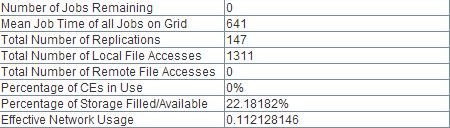
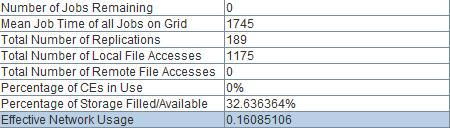
More details

diff --git a/optorsim-2.1/Summary@sim_completed.html b/optorsim-2.1/Summary@sim_completed.html
@@ -14,7 +14,7 @@
 <p><a href="#computing">Computing Elements Statistics</a></p>
 <p><a name="grid"></a></p>
 <h1>Grid</h1>
-<table border="1"><tr><th>Grid Summary Table</th><th></th></tr><tr><td>Number of Jobs Remaining</td><td>0</td></tr><tr><td>Mean Job Time of all Jobs on Grid</td><td>57309</td></tr><tr><td>Total Number of Replications</td><td>0</td></tr><tr><td>Total Number of Local File Accesses</td><td>0</td></tr><tr><td>Total Number of Remote File Accesses</td><td>12391</td></tr><tr><td>Percentage of CEs in Use</td><td>0%</td></tr><tr><td>Percentage of Storage Filled/Available</td><td>8.818179%</td></tr><tr><td>Effective Network Usage</td><td>1.0</td></tr></table>
+<table border="1"><tr><th>Grid Summary Table</th><th></th></tr><tr><td>Number of Jobs Remaining</td><td>0</td></tr><tr><td>Mean Job Time of all Jobs on Grid</td><td>1745</td></tr><tr><td>Total Number of Replications</td><td>189</td></tr><tr><td>Total Number of Local File Accesses</td><td>1175</td></tr><tr><td>Total Number of Remote File Accesses</td><td>0</td></tr><tr><td>Percentage of CEs in Use</td><td>0%</td></tr><tr><td>Percentage of Storage Filled/Available</td><td>32.636364%</td></tr><tr><td>Effective Network Usage</td><td>0.16085106</td></tr></table>
 <p>
 <a href="allGraphs@sim_completed/Grid MJT V Time.JPEG"><img src="allGraphs@sim_completed/Grid MJT V Time.JPEG" alt ="Grid MJT V Time" width="300" height="200"></img></a>
 <a href="allGraphs@sim_completed/Grid JTHist V Time.JPEG"><img src="allGraphs@sim_completed/Grid JTHist V Time.JPEG" alt ="Grid JTHist V Time" width="300" height="200"></img></a>
@@ -61,14 +61,14 @@
 <a href="allGraphs@sim_completed/Site CEU V Time Site4.JPEG"><img src="allGraphs@sim_completed/Site CEU V Time Site4.JPEG" alt ="Site CEU V Time Site4" width="300" height="200"></img></a>
 <a href="allGraphs@sim_completed/Site SEU V Time Site4.JPEG"><img src="allGraphs@sim_completed/Site SEU V Time Site4.JPEG" alt ="Site SEU V Time Site4" width="300" height="200"></img></a>
 </p><h2>Site5</h2>
-<table border="1"><tr><th>Site5 Summary Table</th><th></th></tr><tr><td>Number of CE's</td><td>1</td></tr><tr><td>Size of SE</td><td>50GB</td></tr><tr><td>CE Status (active/idle)</td><td>idle</td></tr><tr><td>SE Status (percentage filled)</td><td>0.0%</td></tr><tr><td>Number of Jobs Processed</td><td>153</td></tr><tr><td>Number of Jobs in Queue</td><td>0</td></tr><tr><td>Mean Job Time</td><td>698038</td></tr><tr><td>Number of Local File Accesses</td><td>0</td></tr><tr><td>Number of Remote File Accesses</td><td>1919</td></tr></table>
+<table border="1"><tr><th>Site5 Summary Table</th><th></th></tr><tr><td>Number of CE's</td><td>1</td></tr><tr><td>Size of SE</td><td>50GB</td></tr><tr><td>CE Status (active/idle)</td><td>idle</td></tr><tr><td>SE Status (percentage filled)</td><td>39.999996%</td></tr><tr><td>Number of Jobs Processed</td><td>12</td></tr><tr><td>Number of Jobs in Queue</td><td>0</td></tr><tr><td>Mean Job Time</td><td>94431</td></tr><tr><td>Number of Local File Accesses</td><td>129</td></tr><tr><td>Number of Remote File Accesses</td><td>0</td></tr></table>
 <p>
 <a href="allGraphs@sim_completed/Site MJT V Time Site5.JPEG"><img src="allGraphs@sim_completed/Site MJT V Time Site5.JPEG" alt ="Site MJT V Time Site5" width="300" height="200"></img></a>
 <a href="allGraphs@sim_completed/Site JTHist V Time Site5.JPEG"><img src="allGraphs@sim_completed/Site JTHist V Time Site5.JPEG" alt ="Site JTHist V Time Site5" width="300" height="200"></img></a>
 <a href="allGraphs@sim_completed/Site CEU V Time Site5.JPEG"><img src="allGraphs@sim_completed/Site CEU V Time Site5.JPEG" alt ="Site CEU V Time Site5" width="300" height="200"></img></a>
 <a href="allGraphs@sim_completed/Site SEU V Time Site5.JPEG"><img src="allGraphs@sim_completed/Site SEU V Time Site5.JPEG" alt ="Site SEU V Time Site5" width="300" height="200"></img></a>
 </p><h2>Site6</h2>
-<table border="1"><tr><th>Site6 Summary Table</th><th></th></tr><tr><td>Number of CE's</td><td>1</td></tr><tr><td>Size of SE</td><td>50GB</td></tr><tr><td>CE Status (active/idle)</td><td>idle</td></tr><tr><td>SE Status (percentage filled)</td><td>0.0%</td></tr><tr><td>Number of Jobs Processed</td><td>124</td></tr><tr><td>Number of Jobs in Queue</td><td>0</td></tr><tr><td>Mean Job Time</td><td>786101</td></tr><tr><td>Number of Local File Accesses</td><td>0</td></tr><tr><td>Number of Remote File Accesses</td><td>548</td></tr></table>
+<table border="1"><tr><th>Site6 Summary Table</th><th></th></tr><tr><td>Number of CE's</td><td>1</td></tr><tr><td>Size of SE</td><td>50GB</td></tr><tr><td>CE Status (active/idle)</td><td>idle</td></tr><tr><td>SE Status (percentage filled)</td><td>78.0%</td></tr><tr><td>Number of Jobs Processed</td><td>16</td></tr><tr><td>Number of Jobs in Queue</td><td>0</td></tr><tr><td>Mean Job Time</td><td>434550</td></tr><tr><td>Number of Local File Accesses</td><td>195</td></tr><tr><td>Number of Remote File Accesses</td><td>0</td></tr></table>
 <p>
 <a href="allGraphs@sim_completed/Site MJT V Time Site6.JPEG"><img src="allGraphs@sim_completed/Site MJT V Time Site6.JPEG" alt ="Site MJT V Time Site6" width="300" height="200"></img></a>
 <a href="allGraphs@sim_completed/Site JTHist V Time Site6.JPEG"><img src="allGraphs@sim_completed/Site JTHist V Time Site6.JPEG" alt ="Site JTHist V Time Site6" width="300" height="200"></img></a>
@@ -82,28 +82,28 @@
 <a href="allGraphs@sim_completed/Site CEU V Time Site7.JPEG"><img src="allGraphs@sim_completed/Site CEU V Time Site7.JPEG" alt ="Site CEU V Time Site7" width="300" height="200"></img></a>
 <a href="allGraphs@sim_completed/Site SEU V Time Site7.JPEG"><img src="allGraphs@sim_completed/Site SEU V Time Site7.JPEG" alt ="Site SEU V Time Site7" width="300" height="200"></img></a>
 </p><h2>Site8</h2>
-<table border="1"><tr><th>Site8 Summary Table</th><th></th></tr><tr><td>Number of CE's</td><td>1</td></tr><tr><td>Size of SE</td><td>50GB</td></tr><tr><td>CE Status (active/idle)</td><td>idle</td></tr><tr><td>SE Status (percentage filled)</td><td>0.0%</td></tr><tr><td>Number of Jobs Processed</td><td>137</td></tr><tr><td>Number of Jobs in Queue</td><td>0</td></tr><tr><td>Mean Job Time</td><td>722650</td></tr><tr><td>Number of Local File Accesses</td><td>0</td></tr><tr><td>Number of Remote File Accesses</td><td>1236</td></tr></table>
+<table border="1"><tr><th>Site8 Summary Table</th><th></th></tr><tr><td>Number of CE's</td><td>1</td></tr><tr><td>Size of SE</td><td>50GB</td></tr><tr><td>CE Status (active/idle)</td><td>idle</td></tr><tr><td>SE Status (percentage filled)</td><td>100.0%</td></tr><tr><td>Number of Jobs Processed</td><td>15</td></tr><tr><td>Number of Jobs in Queue</td><td>0</td></tr><tr><td>Mean Job Time</td><td>166767</td></tr><tr><td>Number of Local File Accesses</td><td>231</td></tr><tr><td>Number of Remote File Accesses</td><td>0</td></tr></table>
 <p>
 <a href="allGraphs@sim_completed/Site MJT V Time Site8.JPEG"><img src="allGraphs@sim_completed/Site MJT V Time Site8.JPEG" alt ="Site MJT V Time Site8" width="300" height="200"></img></a>
 <a href="allGraphs@sim_completed/Site JTHist V Time Site8.JPEG"><img src="allGraphs@sim_completed/Site JTHist V Time Site8.JPEG" alt ="Site JTHist V Time Site8" width="300" height="200"></img></a>
 <a href="allGraphs@sim_completed/Site CEU V Time Site8.JPEG"><img src="allGraphs@sim_completed/Site CEU V Time Site8.JPEG" alt ="Site CEU V Time Site8" width="300" height="200"></img></a>
 <a href="allGraphs@sim_completed/Site SEU V Time Site8.JPEG"><img src="allGraphs@sim_completed/Site SEU V Time Site8.JPEG" alt ="Site SEU V Time Site8" width="300" height="200"></img></a>
 </p><h2>Site9</h2>
-<table border="1"><tr><th>Site9 Summary Table</th><th></th></tr><tr><td>Number of CE's</td><td>1</td></tr><tr><td>Size of SE</td><td>50GB</td></tr><tr><td>CE Status (active/idle)</td><td>idle</td></tr><tr><td>SE Status (percentage filled)</td><td>0.0%</td></tr><tr><td>Number of Jobs Processed</td><td>130</td></tr><tr><td>Number of Jobs in Queue</td><td>0</td></tr><tr><td>Mean Job Time</td><td>752556</td></tr><tr><td>Number of Local File Accesses</td><td>0</td></tr><tr><td>Number of Remote File Accesses</td><td>550</td></tr></table>
+<table border="1"><tr><th>Site9 Summary Table</th><th></th></tr><tr><td>Number of CE's</td><td>1</td></tr><tr><td>Size of SE</td><td>50GB</td></tr><tr><td>CE Status (active/idle)</td><td>idle</td></tr><tr><td>SE Status (percentage filled)</td><td>68.0%</td></tr><tr><td>Number of Jobs Processed</td><td>18</td></tr><tr><td>Number of Jobs in Queue</td><td>0</td></tr><tr><td>Mean Job Time</td><td>337062</td></tr><tr><td>Number of Local File Accesses</td><td>227</td></tr><tr><td>Number of Remote File Accesses</td><td>0</td></tr></table>
 <p>
 <a href="allGraphs@sim_completed/Site MJT V Time Site9.JPEG"><img src="allGraphs@sim_completed/Site MJT V Time Site9.JPEG" alt ="Site MJT V Time Site9" width="300" height="200"></img></a>
 <a href="allGraphs@sim_completed/Site JTHist V Time Site9.JPEG"><img src="allGraphs@sim_completed/Site JTHist V Time Site9.JPEG" alt ="Site JTHist V Time Site9" width="300" height="200"></img></a>
 <a href="allGraphs@sim_completed/Site CEU V Time Site9.JPEG"><img src="allGraphs@sim_completed/Site CEU V Time Site9.JPEG" alt ="Site CEU V Time Site9" width="300" height="200"></img></a>
 <a href="allGraphs@sim_completed/Site SEU V Time Site9.JPEG"><img src="allGraphs@sim_completed/Site SEU V Time Site9.JPEG" alt ="Site SEU V Time Site9" width="300" height="200"></img></a>
 </p><h2>Site10</h2>
-<table border="1"><tr><th>Site10 Summary Table</th><th></th></tr><tr><td>Number of CE's</td><td>1</td></tr><tr><td>Size of SE</td><td>50GB</td></tr><tr><td>CE Status (active/idle)</td><td>idle</td></tr><tr><td>SE Status (percentage filled)</td><td>0.0%</td></tr><tr><td>Number of Jobs Processed</td><td>0</td></tr><tr><td>Number of Jobs in Queue</td><td>0</td></tr><tr><td>Mean Job Time</td><td>0</td></tr><tr><td>Number of Local File Accesses</td><td>0</td></tr><tr><td>Number of Remote File Accesses</td><td>0</td></tr></table>
+<table border="1"><tr><th>Site10 Summary Table</th><th></th></tr><tr><td>Number of CE's</td><td>1</td></tr><tr><td>Size of SE</td><td>50GB</td></tr><tr><td>CE Status (active/idle)</td><td>idle</td></tr><tr><td>SE Status (percentage filled)</td><td>100.0%</td></tr><tr><td>Number of Jobs Processed</td><td>0</td></tr><tr><td>Number of Jobs in Queue</td><td>0</td></tr><tr><td>Mean Job Time</td><td>0</td></tr><tr><td>Number of Local File Accesses</td><td>0</td></tr><tr><td>Number of Remote File Accesses</td><td>0</td></tr></table>
 <p>
 <a href="allGraphs@sim_completed/Site MJT V Time Site10.JPEG"><img src="allGraphs@sim_completed/Site MJT V Time Site10.JPEG" alt ="Site MJT V Time Site10" width="300" height="200"></img></a>
 <a href="allGraphs@sim_completed/Site JTHist V Time Site10.JPEG"><img src="allGraphs@sim_completed/Site JTHist V Time Site10.JPEG" alt ="Site JTHist V Time Site10" width="300" height="200"></img></a>
 <a href="allGraphs@sim_completed/Site CEU V Time Site10.JPEG"><img src="allGraphs@sim_completed/Site CEU V Time Site10.JPEG" alt ="Site CEU V Time Site10" width="300" height="200"></img></a>
 <a href="allGraphs@sim_completed/Site SEU V Time Site10.JPEG"><img src="allGraphs@sim_completed/Site SEU V Time Site10.JPEG" alt ="Site SEU V Time Site10" width="300" height="200"></img></a>
 </p><h2>Site11</h2>
-<table border="1"><tr><th>Site11 Summary Table</th><th></th></tr><tr><td>Number of CE's</td><td>1</td></tr><tr><td>Size of SE</td><td>50GB</td></tr><tr><td>CE Status (active/idle)</td><td>idle</td></tr><tr><td>SE Status (percentage filled)</td><td>0.0%</td></tr><tr><td>Number of Jobs Processed</td><td>165</td></tr><tr><td>Number of Jobs in Queue</td><td>0</td></tr><tr><td>Mean Job Time</td><td>650406</td></tr><tr><td>Number of Local File Accesses</td><td>0</td></tr><tr><td>Number of Remote File Accesses</td><td>1929</td></tr></table>
+<table border="1"><tr><th>Site11 Summary Table</th><th></th></tr><tr><td>Number of CE's</td><td>1</td></tr><tr><td>Size of SE</td><td>50GB</td></tr><tr><td>CE Status (active/idle)</td><td>idle</td></tr><tr><td>SE Status (percentage filled)</td><td>56.0%</td></tr><tr><td>Number of Jobs Processed</td><td>19</td></tr><tr><td>Number of Jobs in Queue</td><td>0</td></tr><tr><td>Mean Job Time</td><td>109514</td></tr><tr><td>Number of Local File Accesses</td><td>182</td></tr><tr><td>Number of Remote File Accesses</td><td>0</td></tr></table>
 <p>
 <a href="allGraphs@sim_completed/Site MJT V Time Site11.JPEG"><img src="allGraphs@sim_completed/Site MJT V Time Site11.JPEG" alt ="Site MJT V Time Site11" width="300" height="200"></img></a>
 <a href="allGraphs@sim_completed/Site JTHist V Time Site11.JPEG"><img src="allGraphs@sim_completed/Site JTHist V Time Site11.JPEG" alt ="Site JTHist V Time Site11" width="300" height="200"></img></a>
@@ -138,14 +138,14 @@
 <a href="allGraphs@sim_completed/Site CEU V Time Site15.JPEG"><img src="allGraphs@sim_completed/Site CEU V Time Site15.JPEG" alt ="Site CEU V Time Site15" width="300" height="200"></img></a>
 <a href="allGraphs@sim_completed/Site SEU V Time Site15.JPEG"><img src="allGraphs@sim_completed/Site SEU V Time Site15.JPEG" alt ="Site SEU V Time Site15" width="300" height="200"></img></a>
 </p><h2>Site16</h2>
-<table border="1"><tr><th>Site16 Summary Table</th><th></th></tr><tr><td>Number of CE's</td><td>1</td></tr><tr><td>Size of SE</td><td>50GB</td></tr><tr><td>CE Status (active/idle)</td><td>idle</td></tr><tr><td>SE Status (percentage filled)</td><td>0.0%</td></tr><tr><td>Number of Jobs Processed</td><td>148</td></tr><tr><td>Number of Jobs in Queue</td><td>0</td></tr><tr><td>Mean Job Time</td><td>841479</td></tr><tr><td>Number of Local File Accesses</td><td>0</td></tr><tr><td>Number of Remote File Accesses</td><td>3118</td></tr></table>
+<table border="1"><tr><th>Site16 Summary Table</th><th></th></tr><tr><td>Number of CE's</td><td>1</td></tr><tr><td>Size of SE</td><td>50GB</td></tr><tr><td>CE Status (active/idle)</td><td>idle</td></tr><tr><td>SE Status (percentage filled)</td><td>32.0%</td></tr><tr><td>Number of Jobs Processed</td><td>11</td></tr><tr><td>Number of Jobs in Queue</td><td>0</td></tr><tr><td>Mean Job Time</td><td>32738</td></tr><tr><td>Number of Local File Accesses</td><td>99</td></tr><tr><td>Number of Remote File Accesses</td><td>0</td></tr></table>
 <p>
 <a href="allGraphs@sim_completed/Site MJT V Time Site16.JPEG"><img src="allGraphs@sim_completed/Site MJT V Time Site16.JPEG" alt ="Site MJT V Time Site16" width="300" height="200"></img></a>
 <a href="allGraphs@sim_completed/Site JTHist V Time Site16.JPEG"><img src="allGraphs@sim_completed/Site JTHist V Time Site16.JPEG" alt ="Site JTHist V Time Site16" width="300" height="200"></img></a>
 <a href="allGraphs@sim_completed/Site CEU V Time Site16.JPEG"><img src="allGraphs@sim_completed/Site CEU V Time Site16.JPEG" alt ="Site CEU V Time Site16" width="300" height="200"></img></a>
 <a href="allGraphs@sim_completed/Site SEU V Time Site16.JPEG"><img src="allGraphs@sim_completed/Site SEU V Time Site16.JPEG" alt ="Site SEU V Time Site16" width="300" height="200"></img></a>
 </p><h2>Site17</h2>
-<table border="1"><tr><th>Site17 Summary Table</th><th></th></tr><tr><td>Number of CE's</td><td>1</td></tr><tr><td>Size of SE</td><td>50GB</td></tr><tr><td>CE Status (active/idle)</td><td>idle</td></tr><tr><td>SE Status (percentage filled)</td><td>0.0%</td></tr><tr><td>Number of Jobs Processed</td><td>143</td></tr><tr><td>Number of Jobs in Queue</td><td>0</td></tr><tr><td>Mean Job Time</td><td>868454</td></tr><tr><td>Number of Local File Accesses</td><td>0</td></tr><tr><td>Number of Remote File Accesses</td><td>3091</td></tr></table>
+<table border="1"><tr><th>Site17 Summary Table</th><th></th></tr><tr><td>Number of CE's</td><td>1</td></tr><tr><td>Size of SE</td><td>50GB</td></tr><tr><td>CE Status (active/idle)</td><td>idle</td></tr><tr><td>SE Status (percentage filled)</td><td>50.0%</td></tr><tr><td>Number of Jobs Processed</td><td>9</td></tr><tr><td>Number of Jobs in Queue</td><td>0</td></tr><tr><td>Mean Job Time</td><td>51702</td></tr><tr><td>Number of Local File Accesses</td><td>112</td></tr><tr><td>Number of Remote File Accesses</td><td>0</td></tr></table>
 <p>
 <a href="allGraphs@sim_completed/Site MJT V Time Site17.JPEG"><img src="allGraphs@sim_completed/Site MJT V Time Site17.JPEG" alt ="Site MJT V Time Site17" width="300" height="200"></img></a>
 <a href="allGraphs@sim_completed/Site JTHist V Time Site17.JPEG"><img src="allGraphs@sim_completed/Site JTHist V Time Site17.JPEG" alt ="Site JTHist V Time Site17" width="300" height="200"></img></a>
@@ -193,12 +193,12 @@
 <a href="allGraphs@sim_completed/Stor Usage V Time SE1@Site4.JPEG"><img src="allGraphs@sim_completed/Stor Usage V Time SE1@Site4.JPEG" alt ="Stor Usage V Time SE1@Site4" width="300" height="200"></img></a>
 </p><a href="allGraphs@sim_completed/SE Usage (current) SE1@Site4.JPEG"><img src="allGraphs@sim_completed/SE Usage (current) SE1@Site4.JPEG" alt ="SE Usage (current) SE1@Site4" width="300" height="200"></img></a>
 <h2>SE1@Site5</h2>
-<table border="1"><tr><th>SE1@Site5 Summary Table</th><th></th></tr><tr><td>Size of SE</td><td>50GB</td></tr><tr><td>SE Status (percentage filled)</td><td>0.0%</td></tr><tr><td>Number of Files Stored</td><td>0</td></tr></table>
+<table border="1"><tr><th>SE1@Site5 Summary Table</th><th></th></tr><tr><td>Size of SE</td><td>50GB</td></tr><tr><td>SE Status (percentage filled)</td><td>39.999996%</td></tr><tr><td>Number of Files Stored</td><td>20</td></tr></table>
 <p>
 <a href="allGraphs@sim_completed/Stor Usage V Time SE1@Site5.JPEG"><img src="allGraphs@sim_completed/Stor Usage V Time SE1@Site5.JPEG" alt ="Stor Usage V Time SE1@Site5" width="300" height="200"></img></a>
 </p><a href="allGraphs@sim_completed/SE Usage (current) SE1@Site5.JPEG"><img src="allGraphs@sim_completed/SE Usage (current) SE1@Site5.JPEG" alt ="SE Usage (current) SE1@Site5" width="300" height="200"></img></a>
 <h2>SE1@Site6</h2>
-<table border="1"><tr><th>SE1@Site6 Summary Table</th><th></th></tr><tr><td>Size of SE</td><td>50GB</td></tr><tr><td>SE Status (percentage filled)</td><td>0.0%</td></tr><tr><td>Number of Files Stored</td><td>0</td></tr></table>
+<table border="1"><tr><th>SE1@Site6 Summary Table</th><th></th></tr><tr><td>Size of SE</td><td>50GB</td></tr><tr><td>SE Status (percentage filled)</td><td>78.0%</td></tr><tr><td>Number of Files Stored</td><td>39</td></tr></table>
 <p>
 <a href="allGraphs@sim_completed/Stor Usage V Time SE1@Site6.JPEG"><img src="allGraphs@sim_completed/Stor Usage V Time SE1@Site6.JPEG" alt ="Stor Usage V Time SE1@Site6" width="300" height="200"></img></a>
 </p><a href="allGraphs@sim_completed/SE Usage (current) SE1@Site6.JPEG"><img src="allGraphs@sim_completed/SE Usage (current) SE1@Site6.JPEG" alt ="SE Usage (current) SE1@Site6" width="300" height="200"></img></a>
@@ -208,22 +208,22 @@
 <a href="allGraphs@sim_completed/Stor Usage V Time SE1@Site7.JPEG"><img src="allGraphs@sim_completed/Stor Usage V Time SE1@Site7.JPEG" alt ="Stor Usage V Time SE1@Site7" width="300" height="200"></img></a>
 </p><a href="allGraphs@sim_completed/SE Usage (current) SE1@Site7.JPEG"><img src="allGraphs@sim_completed/SE Usage (current) SE1@Site7.JPEG" alt ="SE Usage (current) SE1@Site7" width="300" height="200"></img></a>
 <h2>SE1@Site8</h2>
-<table border="1"><tr><th>SE1@Site8 Summary Table</th><th></th></tr><tr><td>Size of SE</td><td>50GB</td></tr><tr><td>SE Status (percentage filled)</td><td>0.0%</td></tr><tr><td>Number of Files Stored</td><td>0</td></tr></table>
+<table border="1"><tr><th>SE1@Site8 Summary Table</th><th></th></tr><tr><td>Size of SE</td><td>50GB</td></tr><tr><td>SE Status (percentage filled)</td><td>100.0%</td></tr><tr><td>Number of Files Stored</td><td>50</td></tr></table>
 <p>
 <a href="allGraphs@sim_completed/Stor Usage V Time SE1@Site8.JPEG"><img src="allGraphs@sim_completed/Stor Usage V Time SE1@Site8.JPEG" alt ="Stor Usage V Time SE1@Site8" width="300" height="200"></img></a>
 </p><a href="allGraphs@sim_completed/SE Usage (current) SE1@Site8.JPEG"><img src="allGraphs@sim_completed/SE Usage (current) SE1@Site8.JPEG" alt ="SE Usage (current) SE1@Site8" width="300" height="200"></img></a>
 <h2>SE1@Site9</h2>
-<table border="1"><tr><th>SE1@Site9 Summary Table</th><th></th></tr><tr><td>Size of SE</td><td>50GB</td></tr><tr><td>SE Status (percentage filled)</td><td>0.0%</td></tr><tr><td>Number of Files Stored</td><td>0</td></tr></table>
+<table border="1"><tr><th>SE1@Site9 Summary Table</th><th></th></tr><tr><td>Size of SE</td><td>50GB</td></tr><tr><td>SE Status (percentage filled)</td><td>68.0%</td></tr><tr><td>Number of Files Stored</td><td>34</td></tr></table>
 <p>
 <a href="allGraphs@sim_completed/Stor Usage V Time SE1@Site9.JPEG"><img src="allGraphs@sim_completed/Stor Usage V Time SE1@Site9.JPEG" alt ="Stor Usage V Time SE1@Site9" width="300" height="200"></img></a>
 </p><a href="allGraphs@sim_completed/SE Usage (current) SE1@Site9.JPEG"><img src="allGraphs@sim_completed/SE Usage (current) SE1@Site9.JPEG" alt ="SE Usage (current) SE1@Site9" width="300" height="200"></img></a>
 <h2>SE1@Site10</h2>
-<table border="1"><tr><th>SE1@Site10 Summary Table</th><th></th></tr><tr><td>Size of SE</td><td>50GB</td></tr><tr><td>SE Status (percentage filled)</td><td>0.0%</td></tr><tr><td>Number of Files Stored</td><td>0</td></tr></table>
+<table border="1"><tr><th>SE1@Site10 Summary Table</th><th></th></tr><tr><td>Size of SE</td><td>50GB</td></tr><tr><td>SE Status (percentage filled)</td><td>100.0%</td></tr><tr><td>Number of Files Stored</td><td>50</td></tr></table>
 <p>
 <a href="allGraphs@sim_completed/Stor Usage V Time SE1@Site10.JPEG"><img src="allGraphs@sim_completed/Stor Usage V Time SE1@Site10.JPEG" alt ="Stor Usage V Time SE1@Site10" width="300" height="200"></img></a>
 </p><a href="allGraphs@sim_completed/SE Usage (current) SE1@Site10.JPEG"><img src="allGraphs@sim_completed/SE Usage (current) SE1@Site10.JPEG" alt ="SE Usage (current) SE1@Site10" width="300" height="200"></img></a>
 <h2>SE1@Site11</h2>
-<table border="1"><tr><th>SE1@Site11 Summary Table</th><th></th></tr><tr><td>Size of SE</td><td>50GB</td></tr><tr><td>SE Status (percentage filled)</td><td>0.0%</td></tr><tr><td>Number of Files Stored</td><td>0</td></tr></table>
+<table border="1"><tr><th>SE1@Site11 Summary Table</th><th></th></tr><tr><td>Size of SE</td><td>50GB</td></tr><tr><td>SE Status (percentage filled)</td><td>56.0%</td></tr><tr><td>Number of Files Stored</td><td>28</td></tr></table>
 <p>
 <a href="allGraphs@sim_completed/Stor Usage V Time SE1@Site11.JPEG"><img src="allGraphs@sim_completed/Stor Usage V Time SE1@Site11.JPEG" alt ="Stor Usage V Time SE1@Site11" width="300" height="200"></img></a>
 </p><a href="allGraphs@sim_completed/SE Usage (current) SE1@Site11.JPEG"><img src="allGraphs@sim_completed/SE Usage (current) SE1@Site11.JPEG" alt ="SE Usage (current) SE1@Site11" width="300" height="200"></img></a>
@@ -248,12 +248,12 @@
 <a href="allGraphs@sim_completed/Stor Usage V Time SE1@Site15.JPEG"><img src="allGraphs@sim_completed/Stor Usage V Time SE1@Site15.JPEG" alt ="Stor Usage V Time SE1@Site15" width="300" height="200"></img></a>
 </p><a href="allGraphs@sim_completed/SE Usage (current) SE1@Site15.JPEG"><img src="allGraphs@sim_completed/SE Usage (current) SE1@Site15.JPEG" alt ="SE Usage (current) SE1@Site15" width="300" height="200"></img></a>
 <h2>SE1@Site16</h2>
-<table border="1"><tr><th>SE1@Site16 Summary Table</th><th></th></tr><tr><td>Size of SE</td><td>50GB</td></tr><tr><td>SE Status (percentage filled)</td><td>0.0%</td></tr><tr><td>Number of Files Stored</td><td>0</td></tr></table>
+<table border="1"><tr><th>SE1@Site16 Summary Table</th><th></th></tr><tr><td>Size of SE</td><td>50GB</td></tr><tr><td>SE Status (percentage filled)</td><td>32.0%</td></tr><tr><td>Number of Files Stored</td><td>16</td></tr></table>
 <p>
 <a href="allGraphs@sim_completed/Stor Usage V Time SE1@Site16.JPEG"><img src="allGraphs@sim_completed/Stor Usage V Time SE1@Site16.JPEG" alt ="Stor Usage V Time SE1@Site16" width="300" height="200"></img></a>
 </p><a href="allGraphs@sim_completed/SE Usage (current) SE1@Site16.JPEG"><img src="allGraphs@sim_completed/SE Usage (current) SE1@Site16.JPEG" alt ="SE Usage (current) SE1@Site16" width="300" height="200"></img></a>
 <h2>SE1@Site17</h2>
-<table border="1"><tr><th>SE1@Site17 Summary Table</th><th></th></tr><tr><td>Size of SE</td><td>50GB</td></tr><tr><td>SE Status (percentage filled)</td><td>0.0%</td></tr><tr><td>Number of Files Stored</td><td>0</td></tr></table>
+<table border="1"><tr><th>SE1@Site17 Summary Table</th><th></th></tr><tr><td>Size of SE</td><td>50GB</td></tr><tr><td>SE Status (percentage filled)</td><td>50.0%</td></tr><tr><td>Number of Files Stored</td><td>25</td></tr></table>
 <p>
 <a href="allGraphs@sim_completed/Stor Usage V Time SE1@Site17.JPEG"><img src="allGraphs@sim_completed/Stor Usage V Time SE1@Site17.JPEG" alt ="Stor Usage V Time SE1@Site17" width="300" height="200"></img></a>
 </p><a href="allGraphs@sim_completed/SE Usage (current) SE1@Site17.JPEG"><img src="allGraphs@sim_completed/SE Usage (current) SE1@Site17.JPEG" alt ="SE Usage (current) SE1@Site17" width="300" height="200"></img></a>
@@ -310,7 +310,7 @@
 <a href="allGraphs@sim_completed/Comp RFA V Time CE5@Site4.JPEG"><img src="allGraphs@sim_completed/Comp RFA V Time CE5@Site4.JPEG" alt ="Comp RFA V Time CE5@Site4" width="300" height="200"></img></a>
 <a href="allGraphs@sim_completed/Comp LFA V Time CE5@Site4.JPEG"><img src="allGraphs@sim_completed/Comp LFA V Time CE5@Site4.JPEG" alt ="Comp LFA V Time CE5@Site4" width="300" height="200"></img></a>
 </p><h2>CE6@Site5</h2>
-<table border="1"><tr><th>CE6@Site5 Summary Table</th><th></th></tr><tr><td>Number of Worker Node's</td><td>100</td></tr><tr><td>CE Status (active/idle)</td><td>idle</td></tr><tr><td>Number of Jobs Processed</td><td>153</td></tr><tr><td>Number of Jobs in Queue</td><td>0</td></tr><tr><td>Mean Job Time</td><td>698038</td></tr><tr><td>Number of Local File Accesses</td><td>0</td></tr><tr><td>Number of Remote File Accesses</td><td>1919</td></tr><tr><td>CE Usage (time active/total time running)</td><td>85.0</td></tr></table>
+<table border="1"><tr><th>CE6@Site5 Summary Table</th><th></th></tr><tr><td>Number of Worker Node's</td><td>100</td></tr><tr><td>CE Status (active/idle)</td><td>idle</td></tr><tr><td>Number of Jobs Processed</td><td>12</td></tr><tr><td>Number of Jobs in Queue</td><td>0</td></tr><tr><td>Mean Job Time</td><td>94431</td></tr><tr><td>Number of Local File Accesses</td><td>129</td></tr><tr><td>Number of Remote File Accesses</td><td>0</td></tr><tr><td>CE Usage (time active/total time running)</td><td>16.0</td></tr></table>
 <p>
 <a href="allGraphs@sim_completed/Comp MJT V Time CE6@Site5.JPEG"><img src="allGraphs@sim_completed/Comp MJT V Time CE6@Site5.JPEG" alt ="Comp MJT V Time CE6@Site5" width="300" height="200"></img></a>
 <a href="allGraphs@sim_completed/Comp JTHist V Time CE6@Site5.JPEG"><img src="allGraphs@sim_completed/Comp JTHist V Time CE6@Site5.JPEG" alt ="Comp JTHist V Time CE6@Site5" width="300" height="200"></img></a>
@@ -318,7 +318,7 @@
 <a href="allGraphs@sim_completed/Comp RFA V Time CE6@Site5.JPEG"><img src="allGraphs@sim_completed/Comp RFA V Time CE6@Site5.JPEG" alt ="Comp RFA V Time CE6@Site5" width="300" height="200"></img></a>
 <a href="allGraphs@sim_completed/Comp LFA V Time CE6@Site5.JPEG"><img src="allGraphs@sim_completed/Comp LFA V Time CE6@Site5.JPEG" alt ="Comp LFA V Time CE6@Site5" width="300" height="200"></img></a>
 </p><h2>CE7@Site6</h2>
-<table border="1"><tr><th>CE7@Site6 Summary Table</th><th></th></tr><tr><td>Number of Worker Node's</td><td>100</td></tr><tr><td>CE Status (active/idle)</td><td>idle</td></tr><tr><td>Number of Jobs Processed</td><td>124</td></tr><tr><td>Number of Jobs in Queue</td><td>0</td></tr><tr><td>Mean Job Time</td><td>786101</td></tr><tr><td>Number of Local File Accesses</td><td>0</td></tr><tr><td>Number of Remote File Accesses</td><td>548</td></tr><tr><td>CE Usage (time active/total time running)</td><td>78.0</td></tr></table>
+<table border="1"><tr><th>CE7@Site6 Summary Table</th><th></th></tr><tr><td>Number of Worker Node's</td><td>100</td></tr><tr><td>CE Status (active/idle)</td><td>idle</td></tr><tr><td>Number of Jobs Processed</td><td>16</td></tr><tr><td>Number of Jobs in Queue</td><td>0</td></tr><tr><td>Mean Job Time</td><td>434550</td></tr><tr><td>Number of Local File Accesses</td><td>195</td></tr><tr><td>Number of Remote File Accesses</td><td>0</td></tr><tr><td>CE Usage (time active/total time running)</td><td>99.0</td></tr></table>
 <p>
 <a href="allGraphs@sim_completed/Comp MJT V Time CE7@Site6.JPEG"><img src="allGraphs@sim_completed/Comp MJT V Time CE7@Site6.JPEG" alt ="Comp MJT V Time CE7@Site6" width="300" height="200"></img></a>
 <a href="allGraphs@sim_completed/Comp JTHist V Time CE7@Site6.JPEG"><img src="allGraphs@sim_completed/Comp JTHist V Time CE7@Site6.JPEG" alt ="Comp JTHist V Time CE7@Site6" width="300" height="200"></img></a>
@@ -334,7 +334,7 @@
 <a href="allGraphs@sim_completed/Comp RFA V Time CE8@Site7.JPEG"><img src="allGraphs@sim_completed/Comp RFA V Time CE8@Site7.JPEG" alt ="Comp RFA V Time CE8@Site7" width="300" height="200"></img></a>
 <a href="allGraphs@sim_completed/Comp LFA V Time CE8@Site7.JPEG"><img src="allGraphs@sim_completed/Comp LFA V Time CE8@Site7.JPEG" alt ="Comp LFA V Time CE8@Site7" width="300" height="200"></img></a>
 </p><h2>CE9@Site8</h2>
-<table border="1"><tr><th>CE9@Site8 Summary Table</th><th></th></tr><tr><td>Number of Worker Node's</td><td>100</td></tr><tr><td>CE Status (active/idle)</td><td>idle</td></tr><tr><td>Number of Jobs Processed</td><td>137</td></tr><tr><td>Number of Jobs in Queue</td><td>0</td></tr><tr><td>Mean Job Time</td><td>722650</td></tr><tr><td>Number of Local File Accesses</td><td>0</td></tr><tr><td>Number of Remote File Accesses</td><td>1236</td></tr><tr><td>CE Usage (time active/total time running)</td><td>79.0</td></tr></table>
+<table border="1"><tr><th>CE9@Site8 Summary Table</th><th></th></tr><tr><td>Number of Worker Node's</td><td>100</td></tr><tr><td>CE Status (active/idle)</td><td>idle</td></tr><tr><td>Number of Jobs Processed</td><td>15</td></tr><tr><td>Number of Jobs in Queue</td><td>0</td></tr><tr><td>Mean Job Time</td><td>166767</td></tr><tr><td>Number of Local File Accesses</td><td>231</td></tr><tr><td>Number of Remote File Accesses</td><td>0</td></tr><tr><td>CE Usage (time active/total time running)</td><td>35.0</td></tr></table>
 <p>
 <a href="allGraphs@sim_completed/Comp MJT V Time CE9@Site8.JPEG"><img src="allGraphs@sim_completed/Comp MJT V Time CE9@Site8.JPEG" alt ="Comp MJT V Time CE9@Site8" width="300" height="200"></img></a>
 <a href="allGraphs@sim_completed/Comp JTHist V Time CE9@Site8.JPEG"><img src="allGraphs@sim_completed/Comp JTHist V Time CE9@Site8.JPEG" alt ="Comp JTHist V Time CE9@Site8" width="300" height="200"></img></a>
@@ -342,7 +342,7 @@
 <a href="allGraphs@sim_completed/Comp RFA V Time CE9@Site8.JPEG"><img src="allGraphs@sim_completed/Comp RFA V Time CE9@Site8.JPEG" alt ="Comp RFA V Time CE9@Site8" width="300" height="200"></img></a>
 <a href="allGraphs@sim_completed/Comp LFA V Time CE9@Site8.JPEG"><img src="allGraphs@sim_completed/Comp LFA V Time CE9@Site8.JPEG" alt ="Comp LFA V Time CE9@Site8" width="300" height="200"></img></a>
 </p><h2>CE10@Site9</h2>
-<table border="1"><tr><th>CE10@Site9 Summary Table</th><th></th></tr><tr><td>Number of Worker Node's</td><td>100</td></tr><tr><td>CE Status (active/idle)</td><td>idle</td></tr><tr><td>Number of Jobs Processed</td><td>130</td></tr><tr><td>Number of Jobs in Queue</td><td>0</td></tr><tr><td>Mean Job Time</td><td>752556</td></tr><tr><td>Number of Local File Accesses</td><td>0</td></tr><tr><td>Number of Remote File Accesses</td><td>550</td></tr><tr><td>CE Usage (time active/total time running)</td><td>78.0</td></tr></table>
+<table border="1"><tr><th>CE10@Site9 Summary Table</th><th></th></tr><tr><td>Number of Worker Node's</td><td>100</td></tr><tr><td>CE Status (active/idle)</td><td>idle</td></tr><tr><td>Number of Jobs Processed</td><td>18</td></tr><tr><td>Number of Jobs in Queue</td><td>0</td></tr><tr><td>Mean Job Time</td><td>337062</td></tr><tr><td>Number of Local File Accesses</td><td>227</td></tr><tr><td>Number of Remote File Accesses</td><td>0</td></tr><tr><td>CE Usage (time active/total time running)</td><td>86.0</td></tr></table>
 <p>
 <a href="allGraphs@sim_completed/Comp MJT V Time CE10@Site9.JPEG"><img src="allGraphs@sim_completed/Comp MJT V Time CE10@Site9.JPEG" alt ="Comp MJT V Time CE10@Site9" width="300" height="200"></img></a>
 <a href="allGraphs@sim_completed/Comp JTHist V Time CE10@Site9.JPEG"><img src="allGraphs@sim_completed/Comp JTHist V Time CE10@Site9.JPEG" alt ="Comp JTHist V Time CE10@Site9" width="300" height="200"></img></a>
@@ -358,7 +358,7 @@
 <a href="allGraphs@sim_completed/Comp RFA V Time CE11@Site10.JPEG"><img src="allGraphs@sim_completed/Comp RFA V Time CE11@Site10.JPEG" alt ="Comp RFA V Time CE11@Site10" width="300" height="200"></img></a>
 <a href="allGraphs@sim_completed/Comp LFA V Time CE11@Site10.JPEG"><img src="allGraphs@sim_completed/Comp LFA V Time CE11@Site10.JPEG" alt ="Comp LFA V Time CE11@Site10" width="300" height="200"></img></a>
 </p><h2>CE12@Site11</h2>
-<table border="1"><tr><th>CE12@Site11 Summary Table</th><th></th></tr><tr><td>Number of Worker Node's</td><td>100</td></tr><tr><td>CE Status (active/idle)</td><td>idle</td></tr><tr><td>Number of Jobs Processed</td><td>165</td></tr><tr><td>Number of Jobs in Queue</td><td>0</td></tr><tr><td>Mean Job Time</td><td>650406</td></tr><tr><td>Number of Local File Accesses</td><td>0</td></tr><tr><td>Number of Remote File Accesses</td><td>1929</td></tr><tr><td>CE Usage (time active/total time running)</td><td>86.0</td></tr></table>
+<table border="1"><tr><th>CE12@Site11 Summary Table</th><th></th></tr><tr><td>Number of Worker Node's</td><td>100</td></tr><tr><td>CE Status (active/idle)</td><td>idle</td></tr><tr><td>Number of Jobs Processed</td><td>19</td></tr><tr><td>Number of Jobs in Queue</td><td>0</td></tr><tr><td>Mean Job Time</td><td>109514</td></tr><tr><td>Number of Local File Accesses</td><td>182</td></tr><tr><td>Number of Remote File Accesses</td><td>0</td></tr><tr><td>CE Usage (time active/total time running)</td><td>29.0</td></tr></table>
 <p>
 <a href="allGraphs@sim_completed/Comp MJT V Time CE12@Site11.JPEG"><img src="allGraphs@sim_completed/Comp MJT V Time CE12@Site11.JPEG" alt ="Comp MJT V Time CE12@Site11" width="300" height="200"></img></a>
 <a href="allGraphs@sim_completed/Comp JTHist V Time CE12@Site11.JPEG"><img src="allGraphs@sim_completed/Comp JTHist V Time CE12@Site11.JPEG" alt ="Comp JTHist V Time CE12@Site11" width="300" height="200"></img></a>
@@ -390,7 +390,7 @@
 <a href="allGraphs@sim_completed/Comp RFA V Time CE15@Site15.JPEG"><img src="allGraphs@sim_completed/Comp RFA V Time CE15@Site15.JPEG" alt ="Comp RFA V Time CE15@Site15" width="300" height="200"></img></a>
 <a href="allGraphs@sim_completed/Comp LFA V Time CE15@Site15.JPEG"><img src="allGraphs@sim_completed/Comp LFA V Time CE15@Site15.JPEG" alt ="Comp LFA V Time CE15@Site15" width="300" height="200"></img></a>
 </p><h2>CE16@Site16</h2>
-<table border="1"><tr><th>CE16@Site16 Summary Table</th><th></th></tr><tr><td>Number of Worker Node's</td><td>100</td></tr><tr><td>CE Status (active/idle)</td><td>idle</td></tr><tr><td>Number of Jobs Processed</td><td>148</td></tr><tr><td>Number of Jobs in Queue</td><td>0</td></tr><tr><td>Mean Job Time</td><td>841479</td></tr><tr><td>Number of Local File Accesses</td><td>0</td></tr><tr><td>Number of Remote File Accesses</td><td>3118</td></tr><tr><td>CE Usage (time active/total time running)</td><td>99.0</td></tr></table>
+<table border="1"><tr><th>CE16@Site16 Summary Table</th><th></th></tr><tr><td>Number of Worker Node's</td><td>100</td></tr><tr><td>CE Status (active/idle)</td><td>idle</td></tr><tr><td>Number of Jobs Processed</td><td>11</td></tr><tr><td>Number of Jobs in Queue</td><td>0</td></tr><tr><td>Mean Job Time</td><td>32738</td></tr><tr><td>Number of Local File Accesses</td><td>99</td></tr><tr><td>Number of Remote File Accesses</td><td>0</td></tr><tr><td>CE Usage (time active/total time running)</td><td>5.0</td></tr></table>
 <p>
 <a href="allGraphs@sim_completed/Comp MJT V Time CE16@Site16.JPEG"><img src="allGraphs@sim_completed/Comp MJT V Time CE16@Site16.JPEG" alt ="Comp MJT V Time CE16@Site16" width="300" height="200"></img></a>
 <a href="allGraphs@sim_completed/Comp JTHist V Time CE16@Site16.JPEG"><img src="allGraphs@sim_completed/Comp JTHist V Time CE16@Site16.JPEG" alt ="Comp JTHist V Time CE16@Site16" width="300" height="200"></img></a>
@@ -398,7 +398,7 @@
 <a href="allGraphs@sim_completed/Comp RFA V Time CE16@Site16.JPEG"><img src="allGraphs@sim_completed/Comp RFA V Time CE16@Site16.JPEG" alt ="Comp RFA V Time CE16@Site16" width="300" height="200"></img></a>
 <a href="allGraphs@sim_completed/Comp LFA V Time CE16@Site16.JPEG"><img src="allGraphs@sim_completed/Comp LFA V Time CE16@Site16.JPEG" alt ="Comp LFA V Time CE16@Site16" width="300" height="200"></img></a>
 </p><h2>CE17@Site17</h2>
-<table border="1"><tr><th>CE17@Site17 Summary Table</th><th></th></tr><tr><td>Number of Worker Node's</td><td>100</td></tr><tr><td>CE Status (active/idle)</td><td>idle</td></tr><tr><td>Number of Jobs Processed</td><td>143</td></tr><tr><td>Number of Jobs in Queue</td><td>0</td></tr><tr><td>Mean Job Time</td><td>868454</td></tr><tr><td>Number of Local File Accesses</td><td>0</td></tr><tr><td>Number of Remote File Accesses</td><td>3091</td></tr><tr><td>CE Usage (time active/total time running)</td><td>99.0</td></tr></table>
+<table border="1"><tr><th>CE17@Site17 Summary Table</th><th></th></tr><tr><td>Number of Worker Node's</td><td>100</td></tr><tr><td>CE Status (active/idle)</td><td>idle</td></tr><tr><td>Number of Jobs Processed</td><td>9</td></tr><tr><td>Number of Jobs in Queue</td><td>0</td></tr><tr><td>Mean Job Time</td><td>51702</td></tr><tr><td>Number of Local File Accesses</td><td>112</td></tr><tr><td>Number of Remote File Accesses</td><td>0</td></tr><tr><td>CE Usage (time active/total time running)</td><td>6.0</td></tr></table>
 <p>
 <a href="allGraphs@sim_completed/Comp MJT V Time CE17@Site17.JPEG"><img src="allGraphs@sim_completed/Comp MJT V Time CE17@Site17.JPEG" alt ="Comp MJT V Time CE17@Site17" width="300" height="200"></img></a>
 <a href="allGraphs@sim_completed/Comp JTHist V Time CE17@Site17.JPEG"><img src="allGraphs@sim_completed/Comp JTHist V Time CE17@Site17.JPEG" alt ="Comp JTHist V Time CE17@Site17" width="300" height="200"></img></a>
